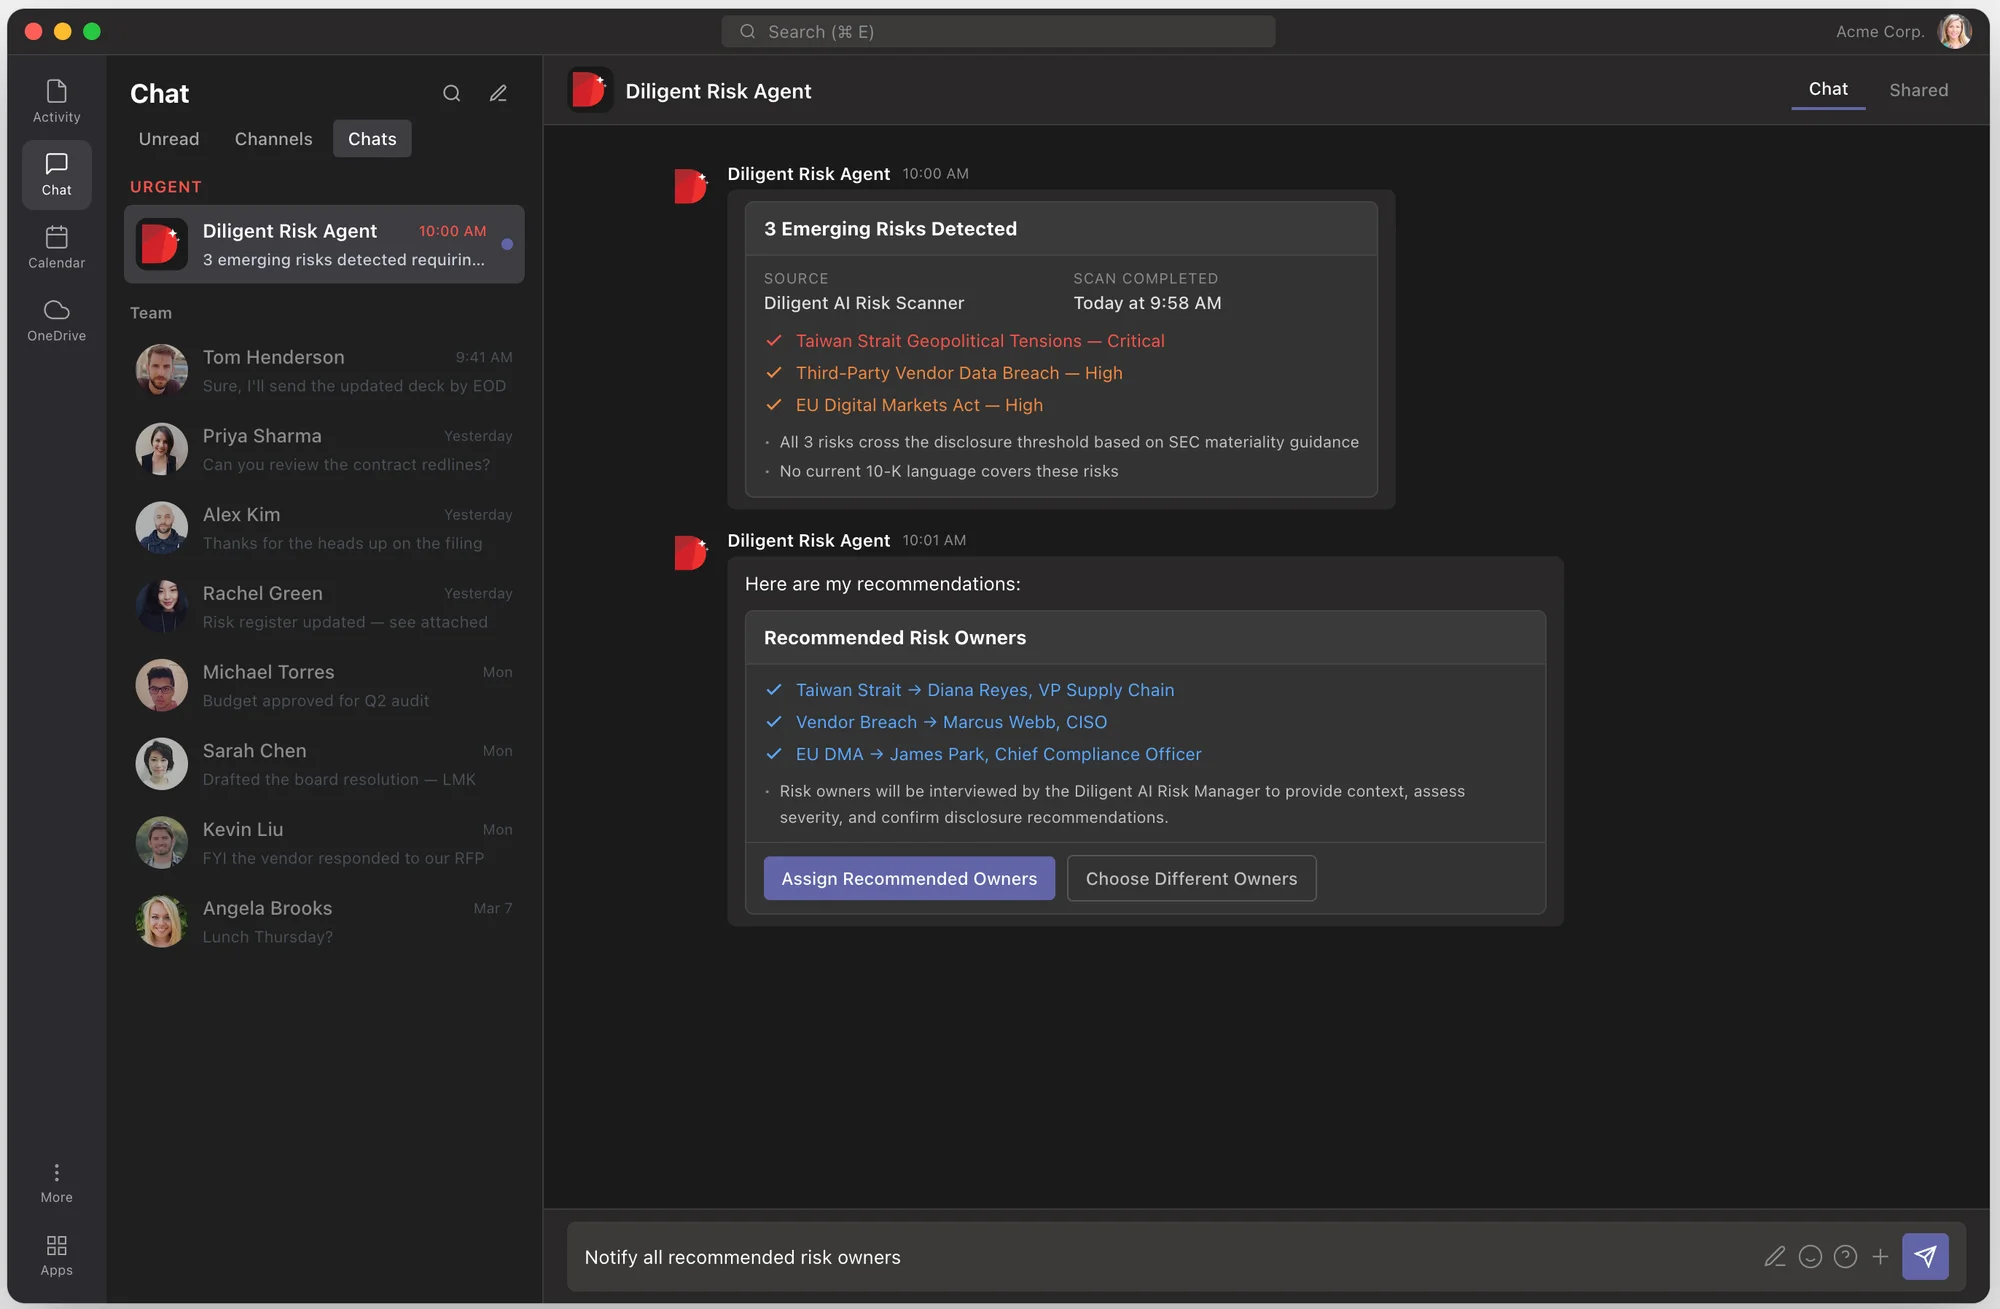
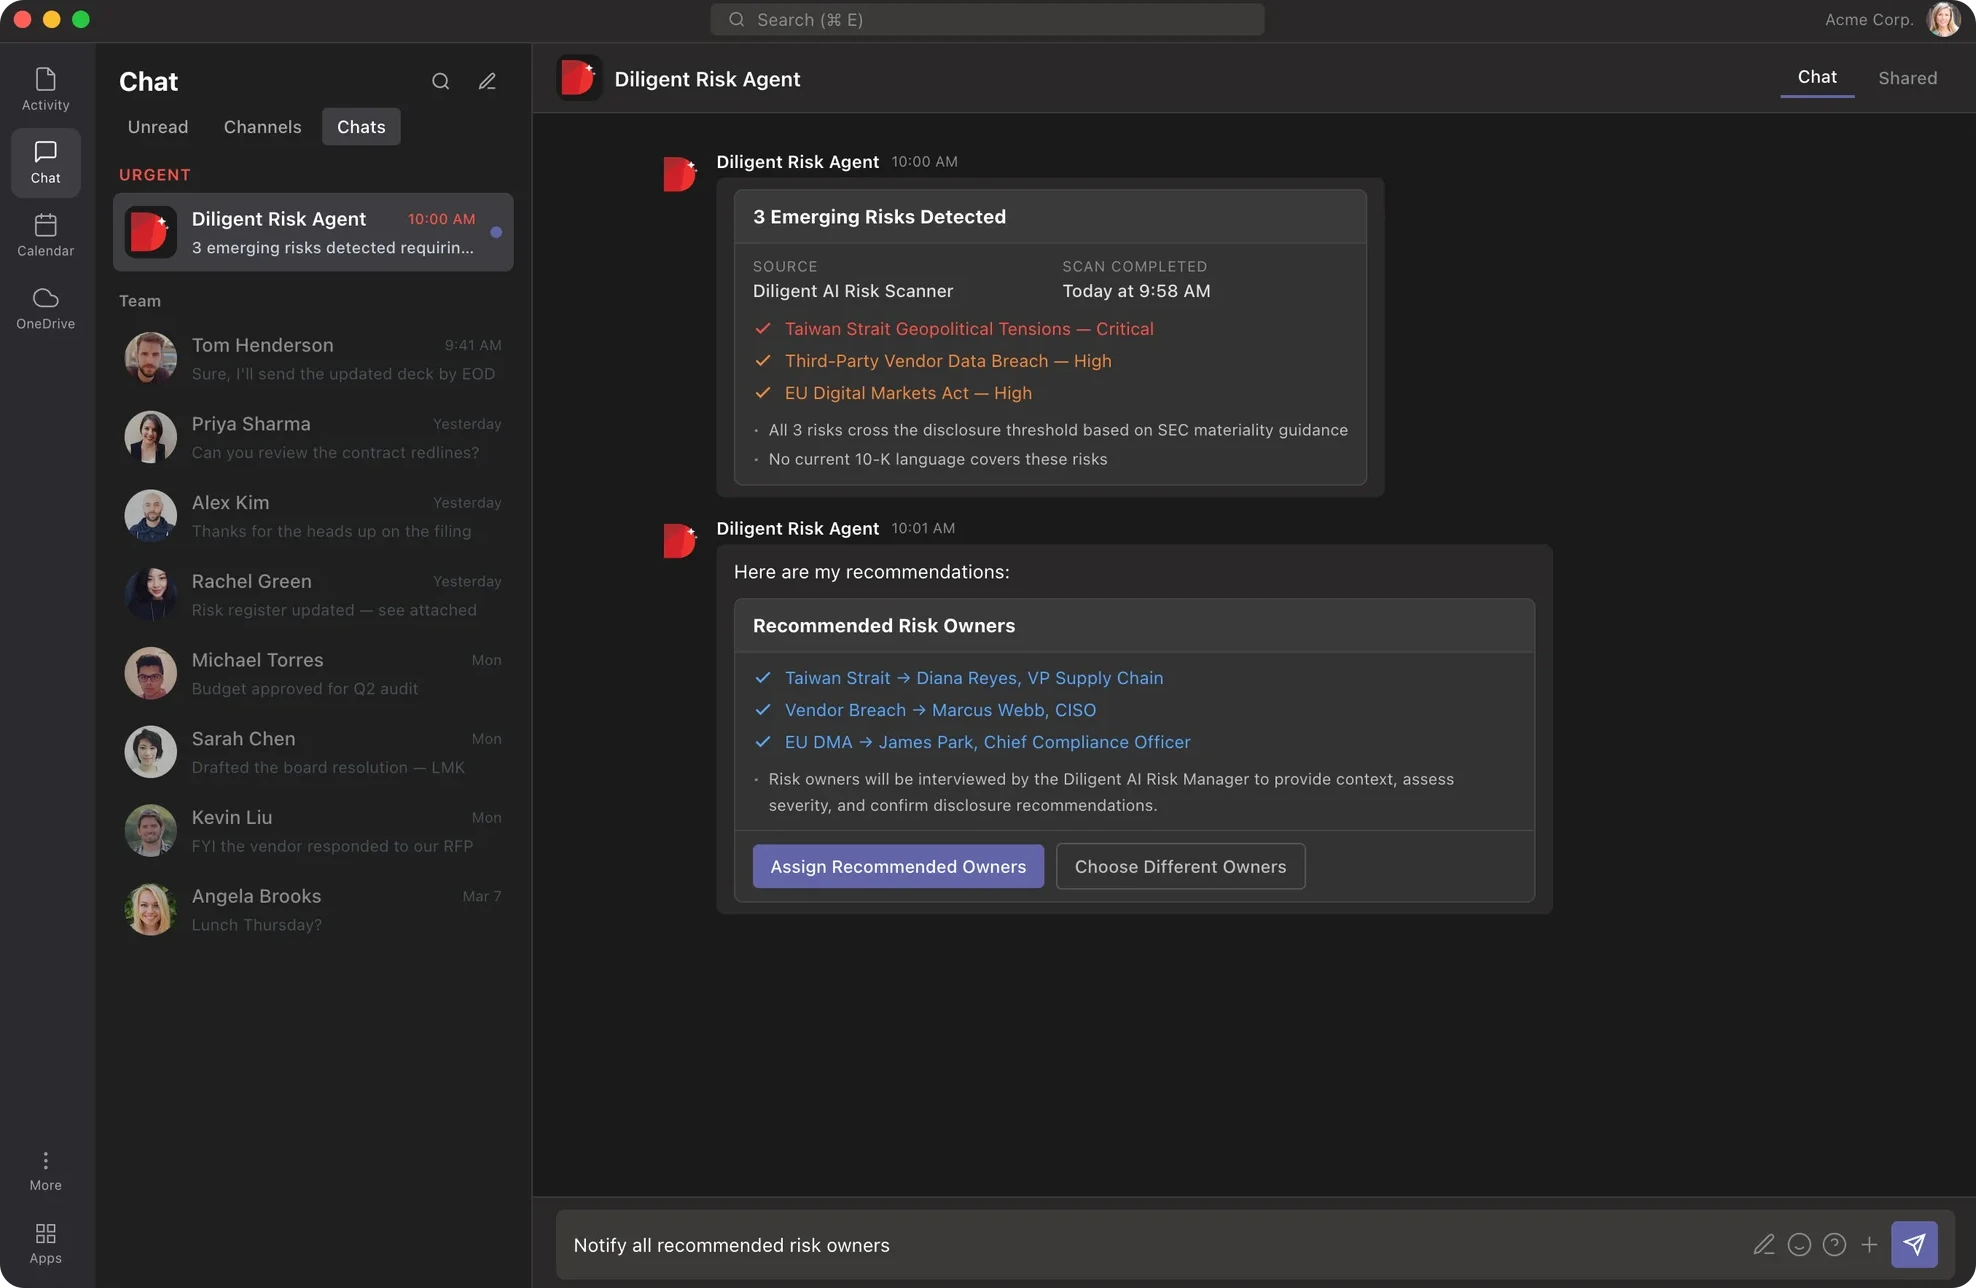
Agentic: drop Entity Management; Headless UI as two columns with context (Teams and Slack, text message); trim Teams capture border; remove unused layers layout

diff --git a/app/(portfolio)/page.tsx b/app/(portfolio)/page.tsx
@@ -141,27 +141,19 @@ function Showcase({ c, mcp, atlas, gate }: { c: Case; mcp: McpData; atlas: Atlas
   const tabs = (c.showcase.tabs ?? []).map((t) => ({
     id: t.id,
     label: t.label,
-    content: t.layers ? (
-      <div className="stage stage-layers" style={t.ratio ? { aspectRatio: t.ratio } : undefined}>
-        {t.layers.map((l, i) =>
-          i === 0 ? (
-            <div
-              key={l.src}
-              className="stage-main pane"
-              style={{ aspectRatio: `${l.width} / ${l.height}`, width: `${l.w ?? 100}%`, marginLeft: `${l.x ?? 0}%` }}
-            >
-              <Pic {...img(l)} decoding="async" />
+    content: t.split ? (
+      <div className="split">
+        {t.split.map((col) => (
+          <section className="split-col" key={col.title}>
+            <h4>{col.title}</h4>
+            <p>{col.text}</p>
+            <div className="split-shots" data-n={col.images.length}>
+              {col.images.map((im) => (
+                <Pic key={im.src} {...img(im)} decoding="async" loading="lazy" />
+              ))}
             </div>
-          ) : (
-            <div
-              key={l.src}
-              className="panel pane"
-              style={{ aspectRatio: `${l.width} / ${l.height}`, left: `${l.x ?? 0}%`, top: `${(l.y ?? 0) * 100}%`, width: `${l.w ?? 40}%`, "--depth": `${l.speed ?? 90}px` } as React.CSSProperties}
-            >
-              <Pic {...img(l)} decoding="async" loading="lazy" />
-            </div>
-          ),
-        )}
+          </section>
+        ))}
       </div>
     ) : t.main ? (
       <>
@@ -199,7 +191,7 @@ function Showcase({ c, mcp, atlas, gate }: { c: Case; mcp: McpData; atlas: Atlas
   );
   const first = story
     ? story[0]
-    : (c.showcase.tabs ?? []).map((t) => t.main ?? t.layers?.[0]).find(Boolean);
+    : (c.showcase.tabs ?? []).map((t) => t.main ?? t.split?.[0]?.images[0]).find(Boolean);
   return c.showcase.gated && first ? (
     <GatedShowcase probe={first.src} ratio={`${first.width} / ${first.height}`} gate={gate}>
       {tabsEl}

diff --git a/app/(portfolio)/home.css b/app/(portfolio)/home.css
@@ -1822,8 +1822,56 @@ figure.media:has(.placeholder[style*="3 / 4"]) {
   opacity: 0;
 }
 
-/* Layered screens are shown whole; only the frames drift. */
-.stage-layers .pane img {
-  scale: 1;
-  animation: none;
+/* Showcase: two columns, each a line of context above its screens. */
+.split {
+  display: grid;
+  grid-template-columns: 1fr;
+  gap: clamp(3rem, 6vw, 4rem);
+  width: min(100%, 1040px);
+  margin: clamp(2.5rem, 5vw, 4rem) auto clamp(5rem, 9vw, 8rem);
+}
+@media (min-width: 760px) {
+  .split {
+    grid-template-columns: 1fr 1fr;
+    gap: clamp(2rem, 4vw, 3.5rem);
+  }
+}
+.split-col h4 {
+  font: 600 0.9375rem/1.3 var(--font-ui);
+  margin: 0 0 0.5rem;
+  padding-top: 0.75rem;
+  border-top: 1px solid var(--hairline);
+}
+.split-col p {
+  margin: 0 0 1.75rem;
+  max-width: 34rem;
+  color: var(--fg-muted);
+  font: 400 0.9375rem/1.5 var(--font-ui);
+}
+.split-shots {
+  display: grid;
+  gap: 1.25rem;
+}
+.split-shots img {
+  display: block;
+  width: 100%;
+  height: auto;
+  border-radius: 10px;
+  box-shadow:
+    0 30px 60px -28px oklch(0.15 0.05 8 / 0.65),
+    0 0 0 1px oklch(1 0 0 / 0.08);
+}
+/* Phones are cut out, so they get a shadow that follows their outline, and sit side by side. */
+.split-shots[data-n="2"]:has(img[height="1482"]) {
+  grid-template-columns: 1fr 1fr;
+  align-items: start;
+  gap: 1rem;
+}
+.split-shots img[height="1482"] {
+  border-radius: 0;
+  box-shadow: none;
+  filter: drop-shadow(0 26px 30px oklch(0.12 0.05 8 / 0.5));
+}
+.split-shots img[height="1482"]:nth-child(2) {
+  margin-top: 2.5rem;
 }

diff --git a/lib/portfolio.ts b/lib/portfolio.ts
@@ -29,17 +29,16 @@ export type StageImage = {
 };
 export type Stage = { main: StageImage; panels: StageImage[] };
 /**
- * A pill's content is one of: `main` with floating `panels`; `layers` (the first fills the stage,
- * the rest float over it at `x` and `w` percent across and `y` (0 to 1) down); or a named `view`.
+ * A pill's content is one of: `main` with floating `panels`; `split` (side-by-side columns, each
+ * with a heading, a line of context and its screens); or a named `view`.
  */
+export type SplitColumn = { title: string; text: string; images: StageImage[] };
 export type ShowcaseTab = {
   id: string;
   label: string;
   main?: StageImage;
   panels?: StageImage[];
-  layers?: StageImage[];
-  /** `layers` only: the stage's aspect ratio, when the layers extend below the first. */
-  ratio?: string;
+  split?: SplitColumn[];
   view?: string;
 };
 /**

diff --git a/content/cases/agentic-vision.md b/content/cases/agentic-vision.md
@@ -40,52 +40,29 @@ showcase:
         width: 1440
         height: 792
         alt: "The shared calendar changing view in place. It starts as cards in four columns: the last few events, the next few, team and peer milestones, and corporate and market dates. It becomes a timeline around today, October 7, then a two-week calendar. Hovering the D&O questionnaires event opens a popover saying two directors have not returned theirs, with a link to the tracker and AI-suggested next steps, each waiting for confirmation. It then returns to cards."
-    - id: entities
-      label: Agentic Entity Management
-      layers:
-        - src: /protected/work/agentic/s-entities.webp
-          width: 2000
-          height: 1355
-          alt: "An entity structure explorer for a fictional company. An org chart sits beside an AI insights panel with complexity indicators and benchmarks against peer organizations."
-        - src: /protected/work/agentic/s-cross-sell.webp
-          width: 2000
-          height: 1077
-          x: 22
-          y: 0.64
-          w: 52
-          speed: 110
-          alt: "A board book open with the GovernAI panel. A slide lists six entities as plain text, and the panel suggests that Diligent Entities could show them as an org chart. The slide shows a preview of that chart, built from public information."
     - id: headless
       label: Headless UI
-      ratio: "1 / 0.84"
-      layers:
-        - src: /protected/work/agentic/s-teams.webp
-          width: 2000
-          height: 1309
-          w: 58
-          alt: "A Diligent Risk Agent inside Microsoft Teams. It reports three emerging risks with severity, recommends an owner for each, and offers buttons to assign the recommended owners or choose different ones."
-        - src: /protected/work/agentic/s-slack.webp
-          width: 2000
-          height: 1247
-          x: 0
-          y: 0.5
-          w: 58
-          speed: 70
-          alt: "The same agent in Slack."
-        - src: /protected/work/agentic/s-phone-questions.webp
-          width: 698
-          height: 1482
-          x: 60
-          y: 0
-          w: 21
-          speed: 120
-          alt: "An iPhone text thread. Cowork, the AI assistant, asks the general counsel two questions with tap-to-choose answers: whether to set up and assign two to-dos to an associate, and whether the updated plan should go to the Audit Committee."
-        - src: /protected/work/agentic/s-phone-nudge.webp
-          width: 698
-          height: 1482
-          x: 79
-          y: 0.43
-          w: 21
-          speed: 90
-          alt: "Later in the same iPhone thread, Cowork reports that the associate missed an 8-K sign-off deadline and asks how to follow up, offering to nudge them, give more time, or leave it to the general counsel."
+      split:
+        - title: In Teams and Slack
+          text: The agent has no app of its own. In Teams and Slack, the Risk Agent reports three emerging risks, recommends an owner for each, and waits for one click to assign them.
+          images:
+            - src: /protected/work/agentic/s-teams.webp
+              width: 1976
+              height: 1288
+              alt: "A Diligent Risk Agent inside Microsoft Teams. It reports three emerging risks with severity, recommends an owner for each, and offers buttons to assign the recommended owners or choose different ones."
+            - src: /protected/work/agentic/s-slack.webp
+              width: 2000
+              height: 1247
+              alt: "The same agent in Slack, with the same three risks, the same recommended owners and the same two buttons."
+        - title: By text message
+          text: The same kind of agent works over iMessage. It asks the general counsel two questions with tap-to-choose answers, then comes back when a to-do goes overdue to ask how to follow up.
+          images:
+            - src: /protected/work/agentic/s-phone-questions.webp
+              width: 698
+              height: 1482
+              alt: "An iPhone text thread. Cowork, the AI assistant, asks the general counsel two questions with tap-to-choose answers: whether to set up and assign two to-dos to an associate, and whether the updated plan should go to the Audit Committee."
+            - src: /protected/work/agentic/s-phone-nudge.webp
+              width: 698
+              height: 1482
+              alt: "Later in the same iPhone thread, Cowork reports that the associate missed an 8-K sign-off deadline and asks how to follow up, offering to nudge them, give more time, or leave it to the general counsel."
 ---
